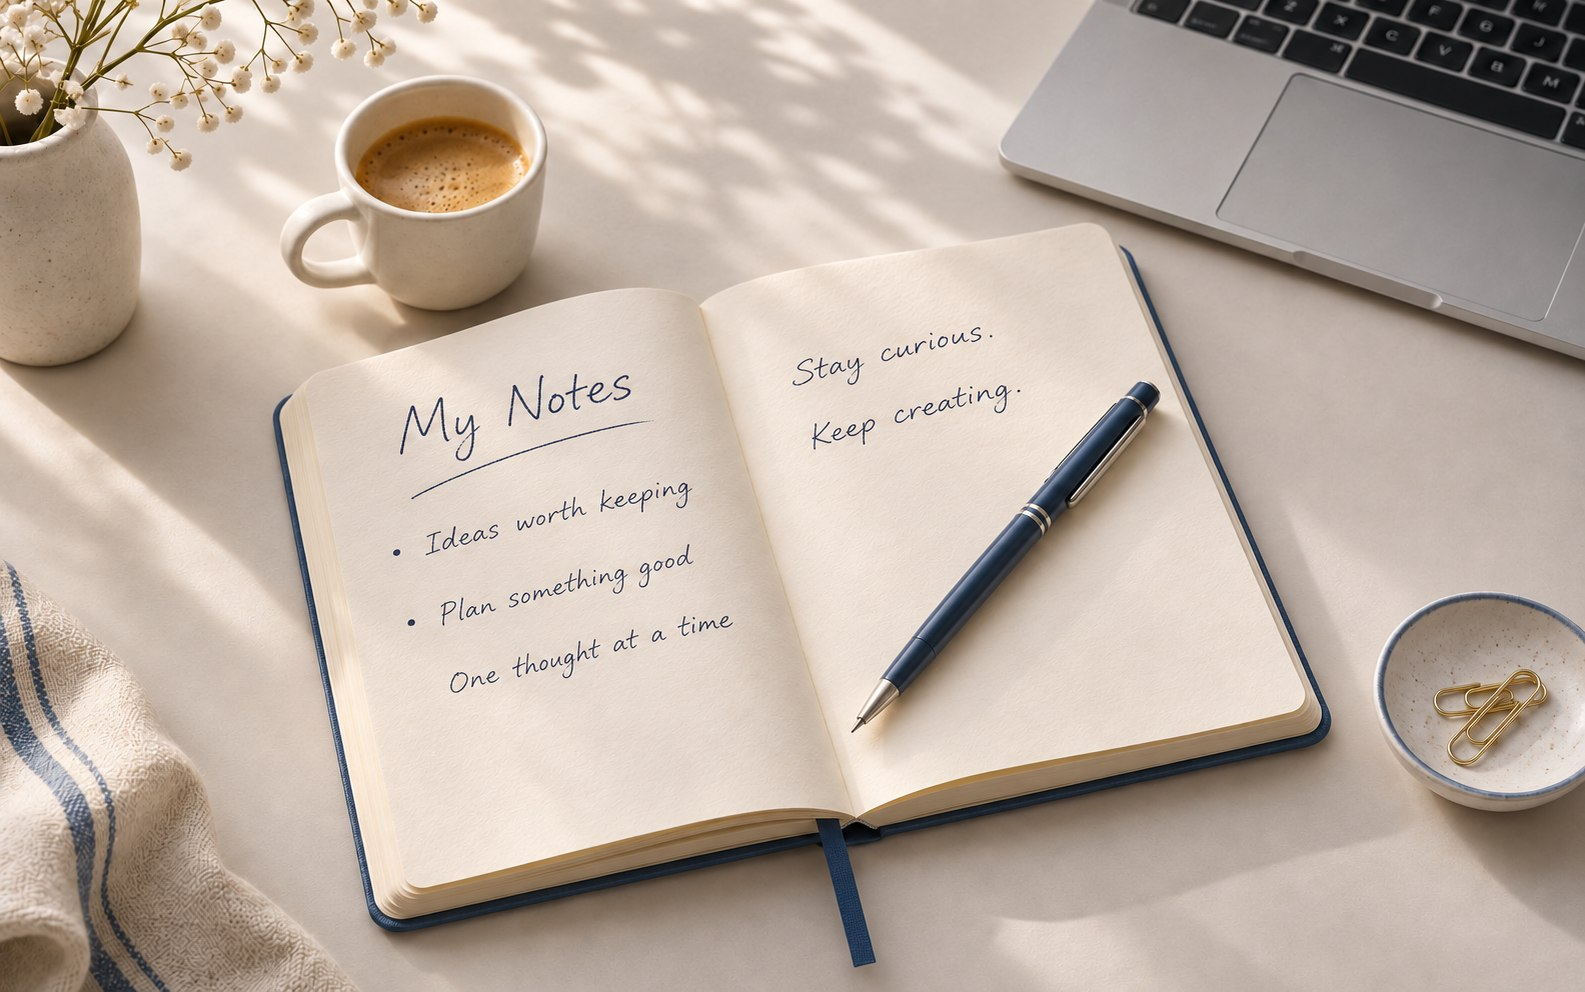
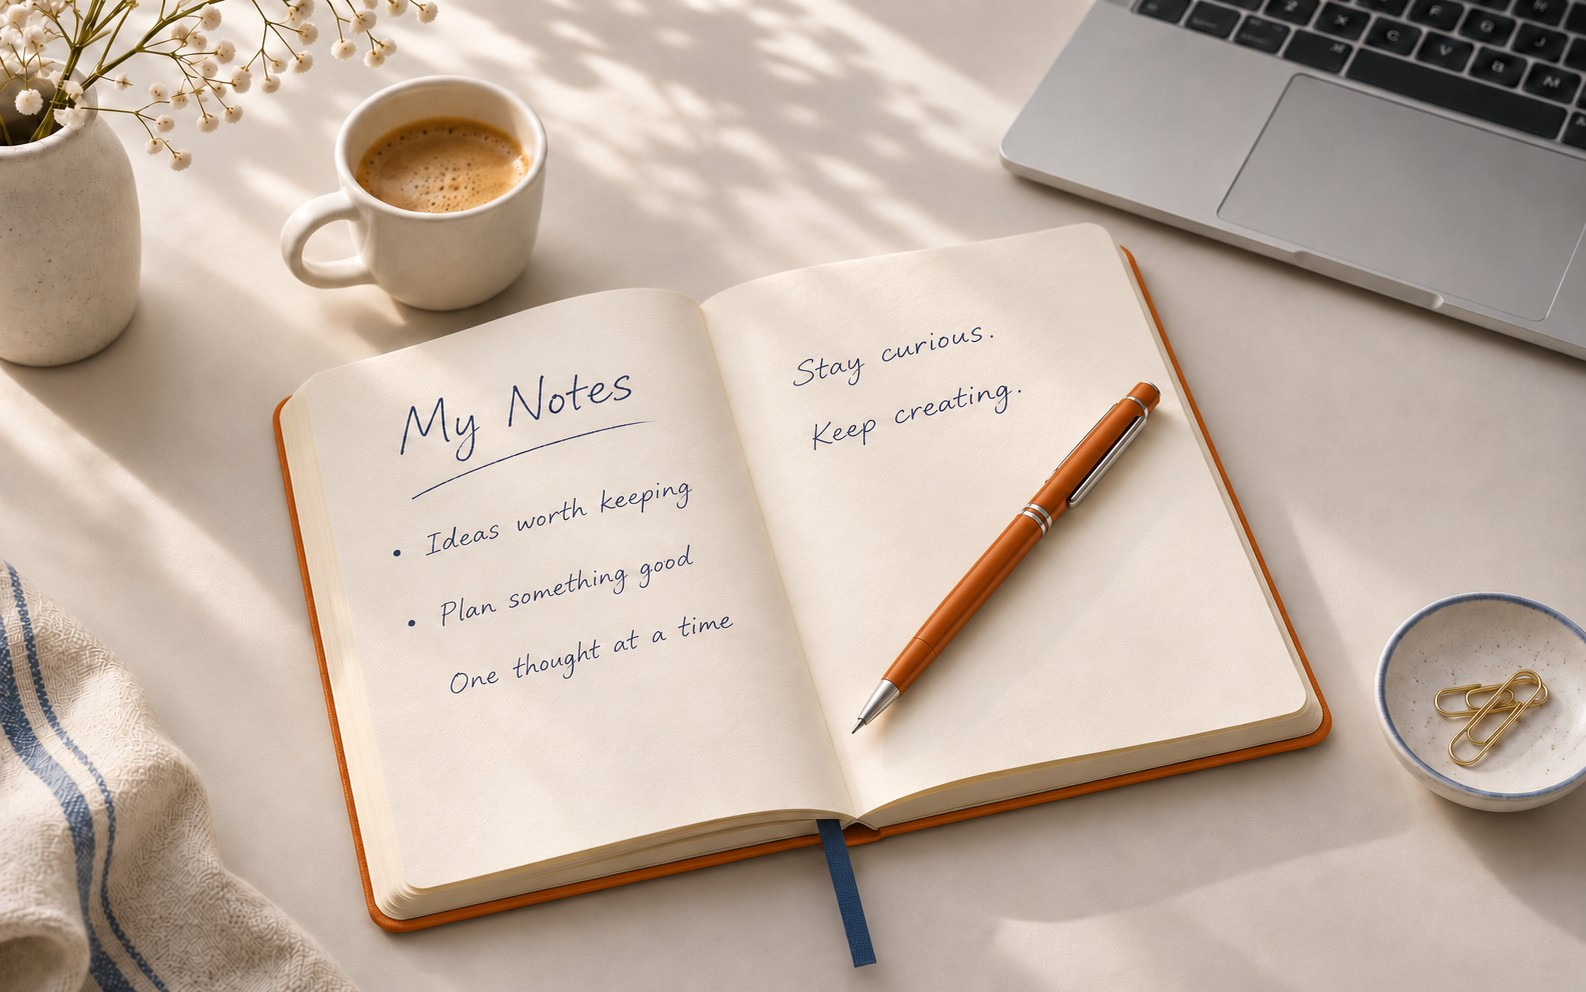
Modify home page

diff --git a/frontend/src/pages/Main.jsx b/frontend/src/pages/Main.jsx
@@ -2,52 +2,48 @@ import Icon from "../components/Icon";
 import { Link } from "react-router-dom";
 
 
-const Main = () => <div className="text-ink bg-base min-h-[100svh] flex flex-col font-sans [&_*]:box-border [&_*::before]:box-border [&_*::after]:box-border [&_main]:flex-1 [&_main]:flex [&_main]:flex-col [&_a]:no-underline [&_a:focus-visible]:[outline:3px_solid_var(--color-primary)] [&_a:focus-visible]:[outline-offset:6px]">
-    <a className="fixed top-[-80px] left-4 py-3 px-5 bg-white z-[10] focus:top-3" href="#main-content">Skip to content</a>
-    <header className="min-h-20 flex justify-between items-center gap-6 [border-bottom:1px_solid_var(--color-border)] [&_nav]:flex [&_nav]:items-center [&_nav]:gap-[30px] [&_nav]:text-[14px] [&_nav]:font-medium [&_nav_>_a:not(.landing-button)]:text-ink [&_nav_>_a:not(.landing-button):hover]:text-primary max-[540px]:min-h-[82px] max-[540px]:gap-3 max-[540px]:[&_nav]:gap-4 max-[540px]:[&_.landing-button]:py-2.5 max-[540px]:[&_.landing-button]:px-3 max-[540px]:[&_.landing-button]:text-[12px] max-[540px]:[&_nav]:text-[13px] w-[min(1240px,_calc(100%_-_96px))] mx-auto max-[1050px]:w-[calc(100%_-_56px)] max-[540px]:w-[calc(100%_-_36px)]">
-      <Link to="/" className="inline-flex items-center text-[25px] font-bold tracking-[-1px] text-ink [&_>_span:last-child]:text-primary max-[540px]:text-[22px]" aria-label="NoteSnap home"><span className="w-[37px] h-[39px] mr-2.5 grid place-items-center bg-primary text-white rounded-[11px_11px_11px_3px] text-[21px] max-[540px]:w-[30px] max-[540px]:h-[34px] max-[540px]:mr-[7px] max-[540px]:text-[18px]"><Icon name="journal-text" /></span>Note<span>Snap.</span></Link>
-      <nav aria-label="Main navigation"><Link to="/login">Log in</Link><Link to="/signup" className="button-primary landing-button inline-flex items-center justify-center rounded-[9px] font-semibold hover:[transform:translateY(-2px)] motion-reduce:hover:transform-none py-3 px-[19px] text-[14px]">Get started</Link></nav>
+const Main = () => <div className="relative isolate overflow-hidden text-white bg-[#241208] min-h-[100svh] flex flex-col font-sans [&_*]:box-border [&_*::before]:box-border [&_*::after]:box-border [&_main]:flex-1 [&_main]:flex [&_main]:flex-col [&_a]:no-underline [&_a:focus-visible]:[outline:3px_solid_var(--color-primary)] [&_a:focus-visible]:[outline-offset:6px]">
+    <div aria-hidden="true" className="pointer-events-none absolute inset-0 z-0">
+      <img src="/workspace-background.jpg" alt="" fetchPriority="high" className="h-full w-full object-cover object-top max-[800px]:h-[900px] max-[800px]:object-[65%_top] max-[800px]:[mask-image:linear-gradient(to_bottom,black_0%,black_55%,transparent_100%)]" />
+      <div className="absolute inset-0 bg-[linear-gradient(to_top,#241208_0%,rgba(36,18,8,0.98)_20%,rgba(36,18,8,0.72)_42%,rgba(36,18,8,0.25)_75%,rgba(36,18,8,0.2)_100%)]" />
+      <div className="absolute inset-0 bg-[linear-gradient(to_right,rgba(36,18,8,0.68)_0%,rgba(36,18,8,0.28)_48%,transparent_85%)]" />
+    </div>
+    <a className="fixed z-30 top-[-80px] left-4 py-3 px-5 bg-white text-ink focus:top-3" href="#main-content">Skip to content</a>
+    <header className="relative z-20 min-h-[88px] flex justify-between items-center gap-6 border-b border-white/20 [&_nav]:flex [&_nav]:items-center [&_nav]:gap-3 [&_nav]:text-[14px] [&_nav]:font-medium max-[760px]:min-h-[78px] max-[540px]:gap-3 max-[540px]:[&_nav]:gap-2 max-[540px]:[&_.landing-button]:py-2.5 max-[540px]:[&_.landing-button]:px-3 max-[540px]:[&_.landing-button]:text-[12px] max-[540px]:[&_nav]:text-[13px] w-[min(1160px,_calc(100%_-_80px))] mx-auto max-[1000px]:w-[calc(100%_-_56px)] max-[480px]:w-[calc(100%_-_36px)]">
+      <Link to="/" className="inline-flex items-center text-[25px] font-bold tracking-[-1px] text-white [&_>_span:last-child]:text-highlight max-[540px]:text-[22px]" aria-label="NoteSnap home"><span className="w-[37px] h-[39px] mr-2.5 grid place-items-center bg-primary text-white rounded-[11px_11px_11px_3px] text-[21px] max-[540px]:w-[30px] max-[540px]:h-[34px] max-[540px]:mr-[7px] max-[540px]:text-[18px]"><Icon name="journal-text" /></span>Note<span>Snap.</span></Link>
+      <nav aria-label="Main navigation"><Link to="/login" className="landing-button inline-flex items-center justify-center rounded-[9px] border border-white/20 bg-white/10 px-[19px] py-3 text-[14px] font-semibold text-white/90 transition-colors hover:bg-white/20 hover:border-white/30">Log in</Link><Link to="/signup" className="landing-button inline-flex items-center justify-center rounded-[9px] border border-white/20 bg-white/10 text-white/90 font-semibold transition-colors hover:bg-white/20 hover:border-white/30 py-3 px-[19px] text-[14px]">Get started</Link></nav>
     </header>
     <main id="main-content">
-      <section className="grid grid-cols-2 gap-12 items-center py-10 flex-1 [&_h1]:text-[clamp(48px,_4.8vw,_68px)] [&_h1]:leading-[1.08] [&_h1]:tracking-[-2.8px] [&_h1]:font-bold [&_h1]:mt-5 [&_h1]:mx-0 [&_h1]:mb-[18px] [&_h1_>_span]:text-primary max-[1050px]:gap-7 max-[1050px]:[&_h1]:text-[45px] max-[1050px]:[&_h1]:tracking-[-2px] max-[800px]:grid-cols-1 max-[800px]:[&_h1]:text-[clamp(42px,_7vw,_58px)] max-[540px]:[&_h1]:tracking-[-2px] max-[540px]:[&_h1]:text-[clamp(35px,_9vw,_48px)] max-[800px]:pt-[28px] max-[800px]:pb-[36px] max-[800px]:gap-8 [@media(min-width:801px)_and_(max-height:800px)]:py-[26px] [@media(min-width:801px)_and_(max-height:800px)]:[&_h1]:text-[clamp(46px,_4.3vw,_58px)] max-[800px]:flex-none w-[min(1240px,_calc(100%_-_96px))] mx-auto max-[1050px]:w-[calc(100%_-_56px)] max-[540px]:w-[calc(100%_-_36px)]" aria-labelledby="hero-heading">
-        <div className="[&_>_p]:max-w-[490px] [&_>_p]:text-[18px] [&_>_p]:leading-[1.65] [&_>_p]:text-muted max-[800px]:max-w-[580px] max-[800px]:[&_>_p]:max-w-[520px] max-[540px]:[&_>_p]:text-[16px]">
-          <span className="inline-flex gap-[9px] items-center text-[13px] text-primary bg-soft border border-border py-2 px-3 rounded-[6px] [&_.bi]:text-primary max-[540px]:text-[11px] max-[540px]:py-[7px] max-[540px]:px-[9px]"><Icon name="stars" /> A little space for your big ideas</span>
+      <section className="grid grid-cols-2 gap-12 items-center py-10 flex-1 [&_h1]:text-[clamp(48px,_4.8vw,_68px)] [&_h1]:leading-[1.08] [&_h1]:tracking-[-2.8px] [&_h1]:font-bold [&_h1]:mt-5 [&_h1]:mx-0 [&_h1]:mb-[18px] [&_h1_>_span]:text-highlight max-[1050px]:gap-7 max-[1050px]:[&_h1]:text-[45px] max-[1050px]:[&_h1]:tracking-[-2px] max-[800px]:grid-cols-1 max-[800px]:[&_h1]:text-[clamp(42px,_7vw,_58px)] max-[540px]:[&_h1]:tracking-[-2px] max-[540px]:[&_h1]:text-[clamp(35px,_9vw,_48px)] max-[800px]:pt-[28px] max-[800px]:pb-[36px] max-[800px]:gap-8 [@media(min-width:801px)_and_(max-height:800px)]:py-[26px] [@media(min-width:801px)_and_(max-height:800px)]:[&_h1]:text-[clamp(46px,_4.3vw,_58px)] max-[800px]:flex-none w-[min(1160px,_calc(100%_-_80px))] mx-auto max-[1000px]:w-[calc(100%_-_56px)] max-[480px]:w-[calc(100%_-_36px)]" aria-labelledby="hero-heading">
+        <div className="relative z-20 [&_>_p]:max-w-[490px] [&_>_p]:text-[18px] [&_>_p]:leading-[1.65] [&_>_p]:text-white/80 max-[800px]:max-w-[580px] max-[800px]:[&_>_p]:max-w-[520px] max-[540px]:[&_>_p]:text-[16px]">
+          <span className="inline-flex gap-[9px] items-center text-[13px] text-white/90 bg-white/10 border border-white/20 py-2 px-3 rounded-[6px] [&_.bi]:text-highlight max-[540px]:text-[11px] max-[540px]:py-[7px] max-[540px]:px-[9px]"><Icon name="stars" /> A little space for your big ideas</span>
           <h1 id="hero-heading">Less in your head.<br /><span>More on a note.</span></h1>
           <p>Your ideas deserve a place to land. Capture the everyday, organize the important, and make room for what’s next.</p>
           <div className="flex items-center flex-wrap gap-[23px] mt-[22px] max-[540px]:gap-5 max-[540px]:[&_.landing-button]:w-full max-[540px]:[&_.landing-text-link]:mx-auto"><Link to="/signup" className="button-primary landing-button inline-flex items-center justify-center py-[17px] px-[26px] rounded-[9px] text-[15px] font-semibold hover:[transform:translateY(-2px)] motion-reduce:hover:transform-none">Start your notebook</Link></div>
-          <div className="flex flex-wrap gap-[23px] mt-4 text-muted text-[13px] [&_>_span]:flex [&_>_span]:items-center [&_>_span]:gap-1.5 [&_.bi]:text-primary max-[540px]:justify-center max-[540px]:gap-[18px] max-[540px]:text-[12px]"><span><Icon name="check2" /> Simple by design</span><span><Icon name="check2" /> Yours to organize</span></div>
+          <div className="flex flex-wrap gap-[23px] mt-4 text-white/70 text-[13px] [&_>_span]:flex [&_>_span]:items-center [&_>_span]:gap-1.5 [&_.bi]:text-primary max-[540px]:justify-center max-[540px]:gap-[18px] max-[540px]:text-[12px]"><span><Icon name="check2" /> Simple by design</span><span><Icon name="check2" /> Yours to organize</span></div>
         </div>
-        <figure id="workspace" className="min-w-0 m-0 max-[800px]:w-[min(600px,_100%)] max-[800px]:mx-auto">
-          <div className="aspect-[16/10] overflow-hidden rounded-[20px] border border-border bg-soft shadow-[0_24px_60px_-28px_#2a1a0e35] max-[540px]:rounded-2xl min-[801px]:aspect-auto min-[801px]:h-[clamp(300px,39svh,400px)] [@media(min-width:801px)_and_(max-height:800px)]:h-[280px]">
-            <img
-              src="/notebook-hero.jpg"
-              alt="An open notebook headed My Notes, with handwritten ideas beside a blue pen, coffee, and laptop."
-              width="1586"
-              height="992"
-              fetchPriority="high"
-              className="h-full w-full object-cover object-center"
-            />
-          </div>
+        <figure className="relative z-20 m-0 overflow-hidden rounded-[24px] border border-white/20 shadow-[0_24px_70px_rgba(0,0,0,0.25)] max-[800px]:w-full">
+          <img src="/notebook-hero.jpg" alt="An open notebook with handwritten notes on a sunlit desk" width="1585" height="992" fetchPriority="high" className="block aspect-[1.45] w-full object-cover max-[800px]:aspect-[1.6]" />
         </figure>
       </section>
-      <section className="border-t border-border pt-[30px] pb-[38px] mt-0 text-center max-[800px]:pt-[24px] max-[800px]:pb-[30px] [@media(min-width:801px)_and_(max-height:800px)]:pt-[22px] [@media(min-width:801px)_and_(max-height:800px)]:pb-[26px] w-[min(1240px,_calc(100%_-_96px))] mx-auto max-[1050px]:w-[calc(100%_-_56px)] max-[540px]:w-[calc(100%_-_36px)]" aria-label="NoteSnap features">
+      <section className="relative z-20 border-t border-white/15 pt-[30px] pb-[38px] mt-0 text-center text-white max-[800px]:pt-[24px] max-[800px]:pb-[30px] [@media(min-width:801px)_and_(max-height:800px)]:pt-[22px] [@media(min-width:801px)_and_(max-height:800px)]:pb-[26px] w-[min(1160px,_calc(100%_-_80px))] mx-auto max-[1000px]:w-[calc(100%_-_56px)] max-[480px]:w-[calc(100%_-_36px)]" aria-label="NoteSnap features">
 
-        <div className="grid grid-cols-3 gap-8 [&_article]:flex [&_article]:flex-col [&_article]:items-center [&_article]:gap-[17px] [&_article:nth-child(2)_.landing-why-icon]:bg-secondary-soft [&_article:nth-child(2)_.landing-why-icon]:text-secondary-ink [&_article:nth-child(2)_.landing-why-icon]:shadow-[inset_0_0_0_1px_var(--color-secondary)] [&_article:nth-child(3)_.landing-why-icon]:bg-soft [&_article:nth-child(3)_.landing-why-icon]:text-primary [&_article:nth-child(3)_.landing-why-icon]:shadow-[inset_0_0_0_1px_var(--color-accent)] [&_h3]:text-[20px] [&_h3]:font-semibold [&_h3]:mb-[9px] [&_h3]:tracking-[-.3px] [&_p]:text-[16px] [&_p]:leading-[1.7] [&_p]:text-muted [&_p]:max-w-[290px] [&_p]:mx-auto max-[800px]:grid-cols-1 max-[800px]:gap-8 max-[800px]:[&_article]:flex-row max-[800px]:[&_article]:items-center max-[800px]:[&_article]:gap-3.5 max-[800px]:[&_article]:text-left max-[800px]:[&_p]:max-w-[none] max-[800px]:[&_p]:mx-0 [@media(min-width:801px)_and_(max-height:800px)]:[&_h3]:text-[18px] max-[800px]:[&_h3]:text-[18px]">
+        <div className="grid grid-cols-3 gap-8 [&_article]:flex [&_article]:flex-col [&_article]:items-center [&_article]:gap-[17px] [&_h3]:text-[20px] [&_h3]:font-semibold [&_h3]:mb-[9px] [&_h3]:tracking-[-.3px] [&_p]:text-[16px] [&_p]:leading-[1.7] [&_p]:text-white/70 [&_p]:max-w-[290px] [&_p]:mx-auto max-[800px]:grid-cols-1 max-[800px]:gap-8 max-[800px]:[&_article]:flex-row max-[800px]:[&_article]:items-center max-[800px]:[&_article]:gap-3.5 max-[800px]:[&_article]:text-left max-[800px]:[&_p]:max-w-[none] max-[800px]:[&_p]:mx-0 [@media(min-width:801px)_and_(max-height:800px)]:[&_h3]:text-[18px] max-[800px]:[&_h3]:text-[18px]">
           <article>
-            <span className="landing-why-icon shrink-0 grid place-items-center w-[52px] h-[52px] rounded-[14px] bg-soft text-primary text-[25px] max-[800px]:w-[46px] max-[800px]:h-[46px] max-[800px]:text-[23px]"><Icon name="lightning-charge" /></span>
+            <span className="landing-why-icon shrink-0 grid place-items-center w-[52px] h-[52px] rounded-full border border-highlight text-highlight text-[25px] max-[800px]:w-[46px] max-[800px]:h-[46px] max-[800px]:text-[23px]"><Icon name="lightning-charge" /></span>
             <div><h3>Capture in a moment</h3><p>Give every idea and reminder a place to land.</p></div>
           </article>
           <article>
-            <span className="landing-why-icon shrink-0 grid place-items-center w-[52px] h-[52px] rounded-[14px] bg-soft text-primary text-[25px] max-[800px]:w-[46px] max-[800px]:h-[46px] max-[800px]:text-[23px]"><Icon name="tags" /></span>
+            <span className="landing-why-icon shrink-0 grid place-items-center w-[52px] h-[52px] rounded-full border border-highlight text-highlight text-[25px] max-[800px]:w-[46px] max-[800px]:h-[46px] max-[800px]:text-[23px]"><Icon name="tags" /></span>
             <div><h3>Make it your own</h3><p>Keep projects and everyday thoughts organized with tags.</p></div>
           </article>
           <article>
-            <span className="landing-why-icon shrink-0 grid place-items-center w-[52px] h-[52px] rounded-[14px] bg-soft text-primary text-[25px] max-[800px]:w-[46px] max-[800px]:h-[46px] max-[800px]:text-[23px]"><Icon name="pin-angle" /></span>
+            <span className="landing-why-icon shrink-0 grid place-items-center w-[52px] h-[52px] rounded-full border border-highlight text-highlight text-[25px] max-[800px]:w-[46px] max-[800px]:h-[46px] max-[800px]:text-[23px]"><Icon name="pin-angle" /></span>
             <div><h3>Find what matters</h3><p>Pin the essentials and search your notes with ease.</p></div>
           </article>
         </div>
       </section>
     </main>
-    <footer className="py-[18px] mt-0 border-t border-border flex items-center justify-between gap-5 text-[12px] text-muted max-[800px]:[&_>_span:last-child]:hidden max-[540px]:items-start max-[540px]:flex-col max-[540px]:gap-2 max-[540px]:py-6 max-[540px]:mt-0 w-[min(1240px,_calc(100%_-_96px))] mx-auto max-[1050px]:w-[calc(100%_-_56px)] max-[540px]:w-[calc(100%_-_36px)]"><span className="text-[18px] font-bold text-ink tracking-[-.6px]">NoteSnap.</span><p>A little more organized. A little more you.</p><span>Made for your everyday.</span></footer>
+    <footer className="relative z-20 py-[18px] mt-0 border-t border-white/15 flex items-center justify-between gap-5 text-[12px] text-white/60 max-[800px]:[&_>_span:last-child]:hidden max-[540px]:items-start max-[540px]:flex-col max-[540px]:gap-2 max-[540px]:py-6 max-[540px]:mt-0 w-[min(1160px,_calc(100%_-_80px))] mx-auto max-[1000px]:w-[calc(100%_-_56px)] max-[480px]:w-[calc(100%_-_36px)]"><span className="text-[18px] font-bold text-white tracking-[-.6px]">NoteSnap.</span><p>A little more organized. A little more you.</p><span>Made for your everyday.</span></footer>
   </div>;
 export default Main;
